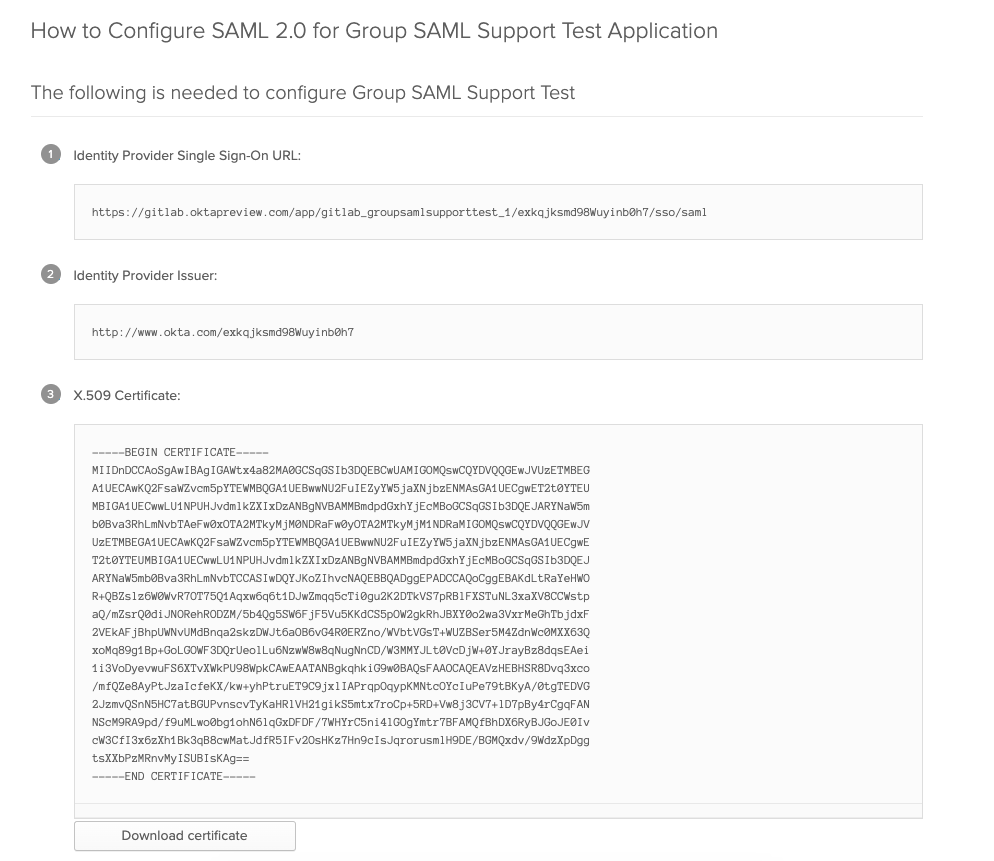
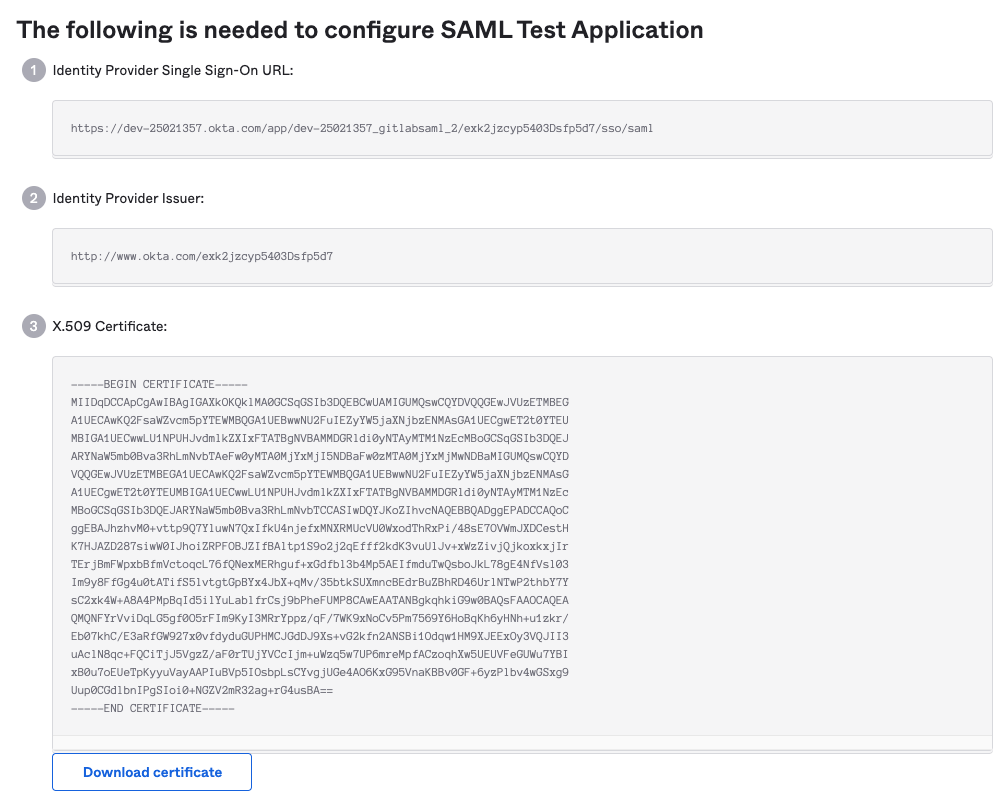
Add new Okta SAML Screenshots

diff --git a/doc/user/group/saml_sso/example_saml_config.md b/doc/user/group/saml_sso/example_saml_config.md
@@ -68,13 +68,21 @@ fingerprint.
 
 ## Okta
 
-Basic SAML app configuration:
+Basic SAML app configuration for GitLab.com groups:
 
-![Okta basic SAML](img/Okta-SAMLsetup.png)
+![Okta basic SAML](img/Okta-GroupSAML.png)
+
+Basic SAML app configuration for GitLab self-managed:
+
+![Okta admin panel view](img/Okta-SM.png)
 
 User claims and attributes:
 
 ![Okta Attributes](img/Okta-attributes.png)
+
+Groups attribute:
+
+![Okta Group attribute](img/Okta-GroupAttribute.png)
 
 Advanced SAML app settings (defaults):
 
@@ -87,10 +95,6 @@ IdP Links and Certificate:
 Sign on settings:
 
 ![Okta SAML settings](img/okta_saml_settings.png)
-
-Self-managed instance example:
-
-![Okta admin panel view](img/okta_admin_panel_v13_9.png)
 
 Setting the username for the newly provisioned users when assigning them the SCIM app:
 
